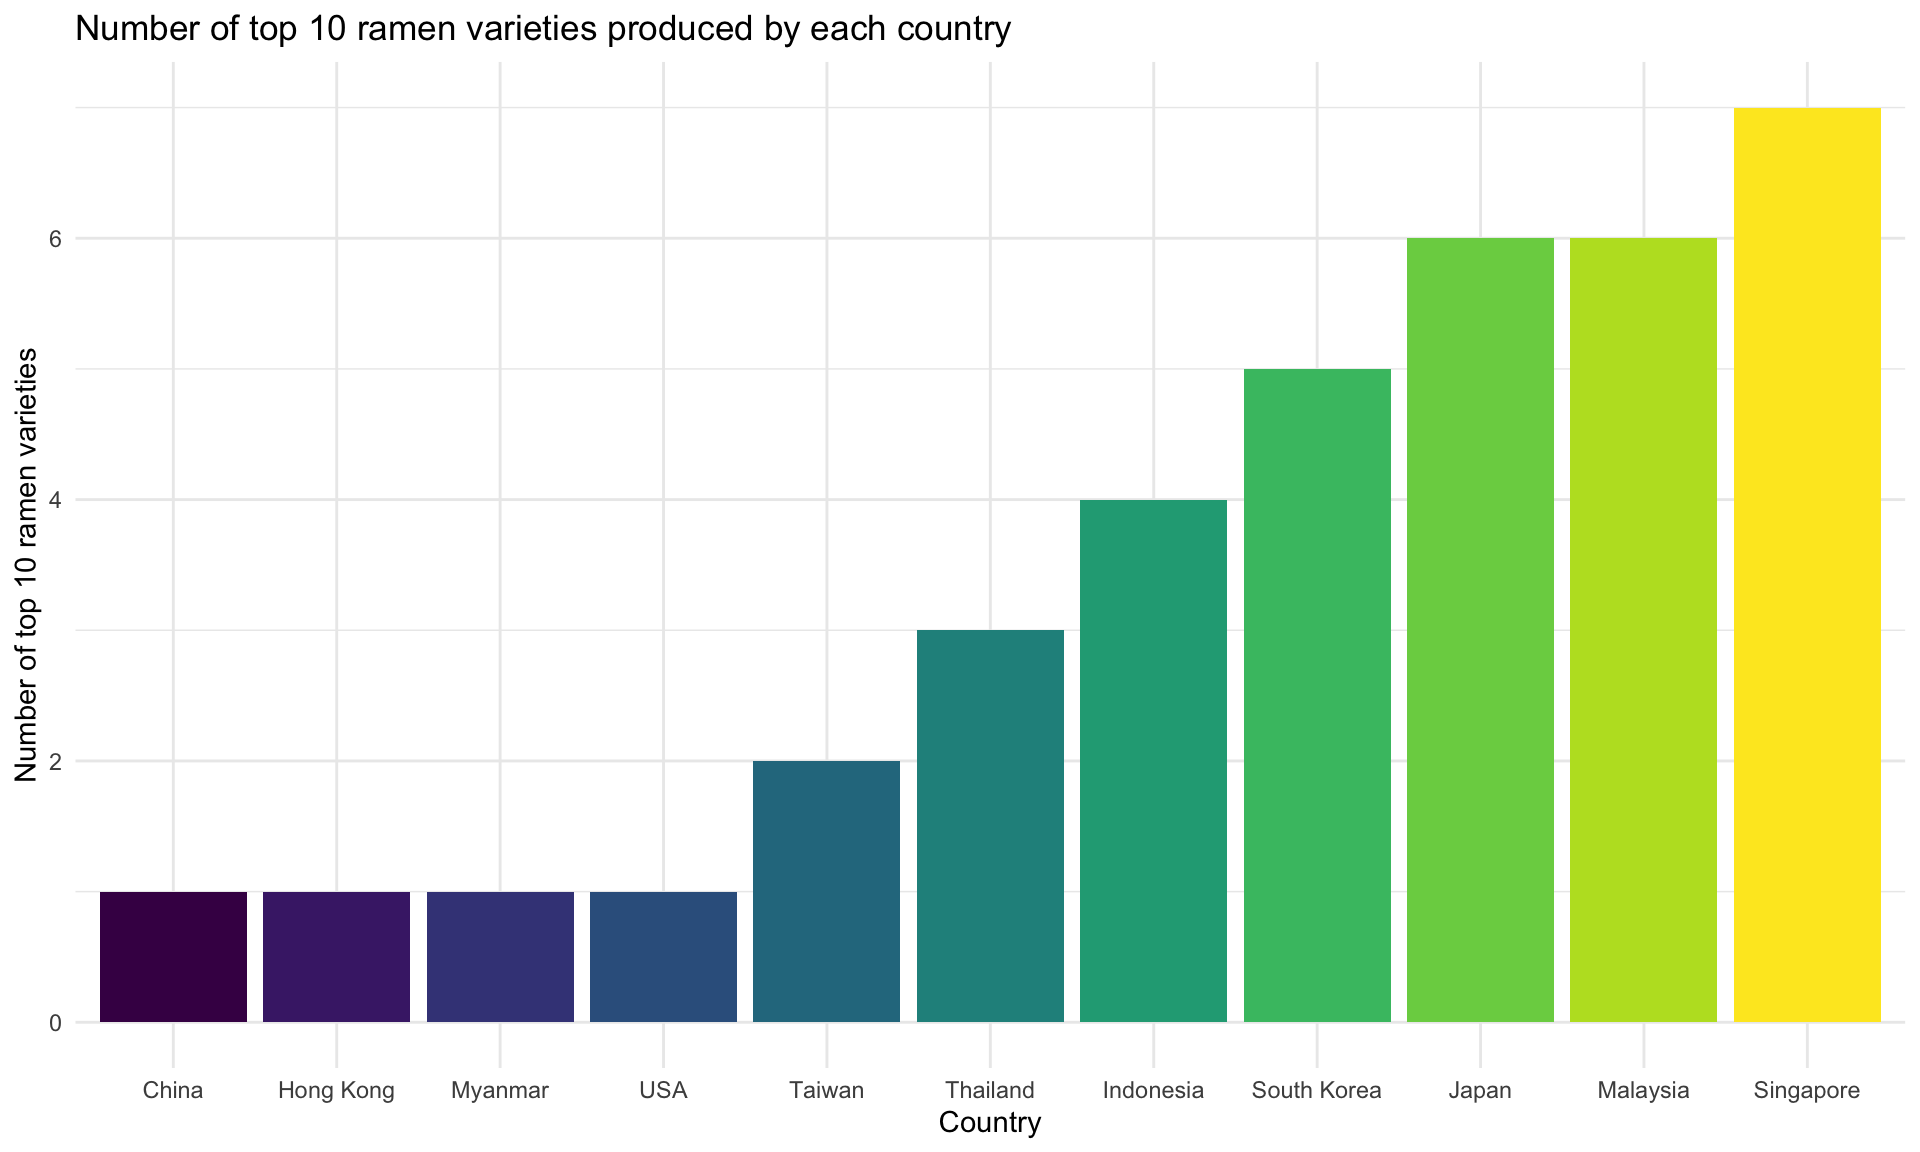
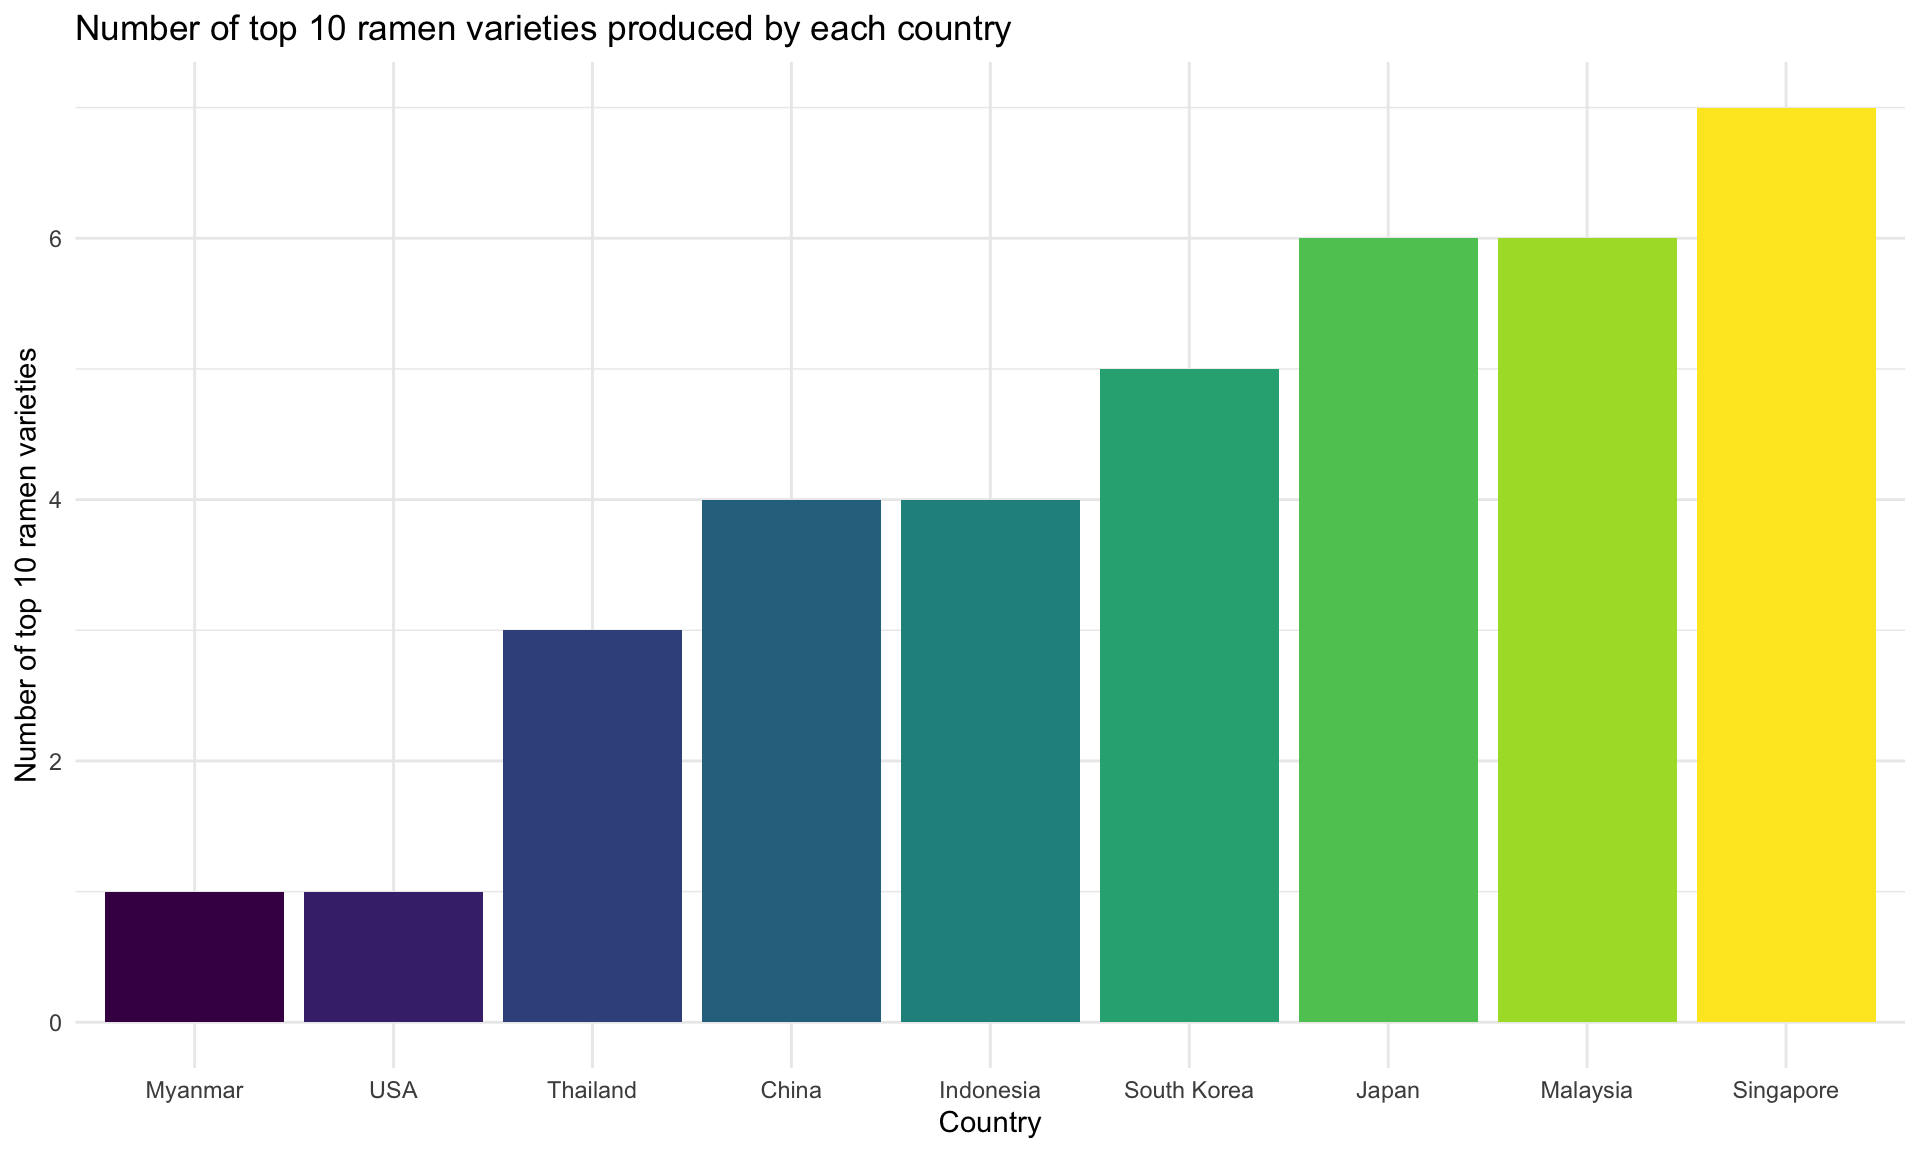
make country variable only on country level and reknit

diff --git a/top_ten.html b/top_ten.html
@@ -362,6 +362,9 @@ div.tocify {
   <a href="rating_by_country.html">Rating by Country</a>
 </li>
 <li>
+  <a href="rating_by_brand.html">Rating by Brand</a>
+</li>
+<li>
   <a href="https://www.cuimc.columbia.edu/">
     <span class="fa fa-school fa-lg"></span>
      
@@ -430,7 +433,7 @@ div.tocify {
 <td align="left">Tseng Noodles</td>
 <td align="left">Scallion With Sichuan Pepper Flavor</td>
 <td align="left">Pack</td>
-<td align="left">Taiwan</td>
+<td align="left">China</td>
 </tr>
 <tr class="even">
 <td align="right">10</td>
@@ -509,7 +512,7 @@ div.tocify {
 <td align="left">A-Sha Dry Noodle</td>
 <td align="left">Veggie Noodle Tomato Noodle With Vine Ripened Tomato Sauce</td>
 <td align="left">Pack</td>
-<td align="left">Taiwan</td>
+<td align="left">China</td>
 </tr>
 </tbody>
 </table>
@@ -725,7 +728,7 @@ div.tocify {
 <td align="left">Doll</td>
 <td align="left">Artificial Chicken</td>
 <td align="left">Pack</td>
-<td align="left">Hong Kong</td>
+<td align="left">China</td>
 </tr>
 <tr class="odd">
 <td align="right">10</td>
